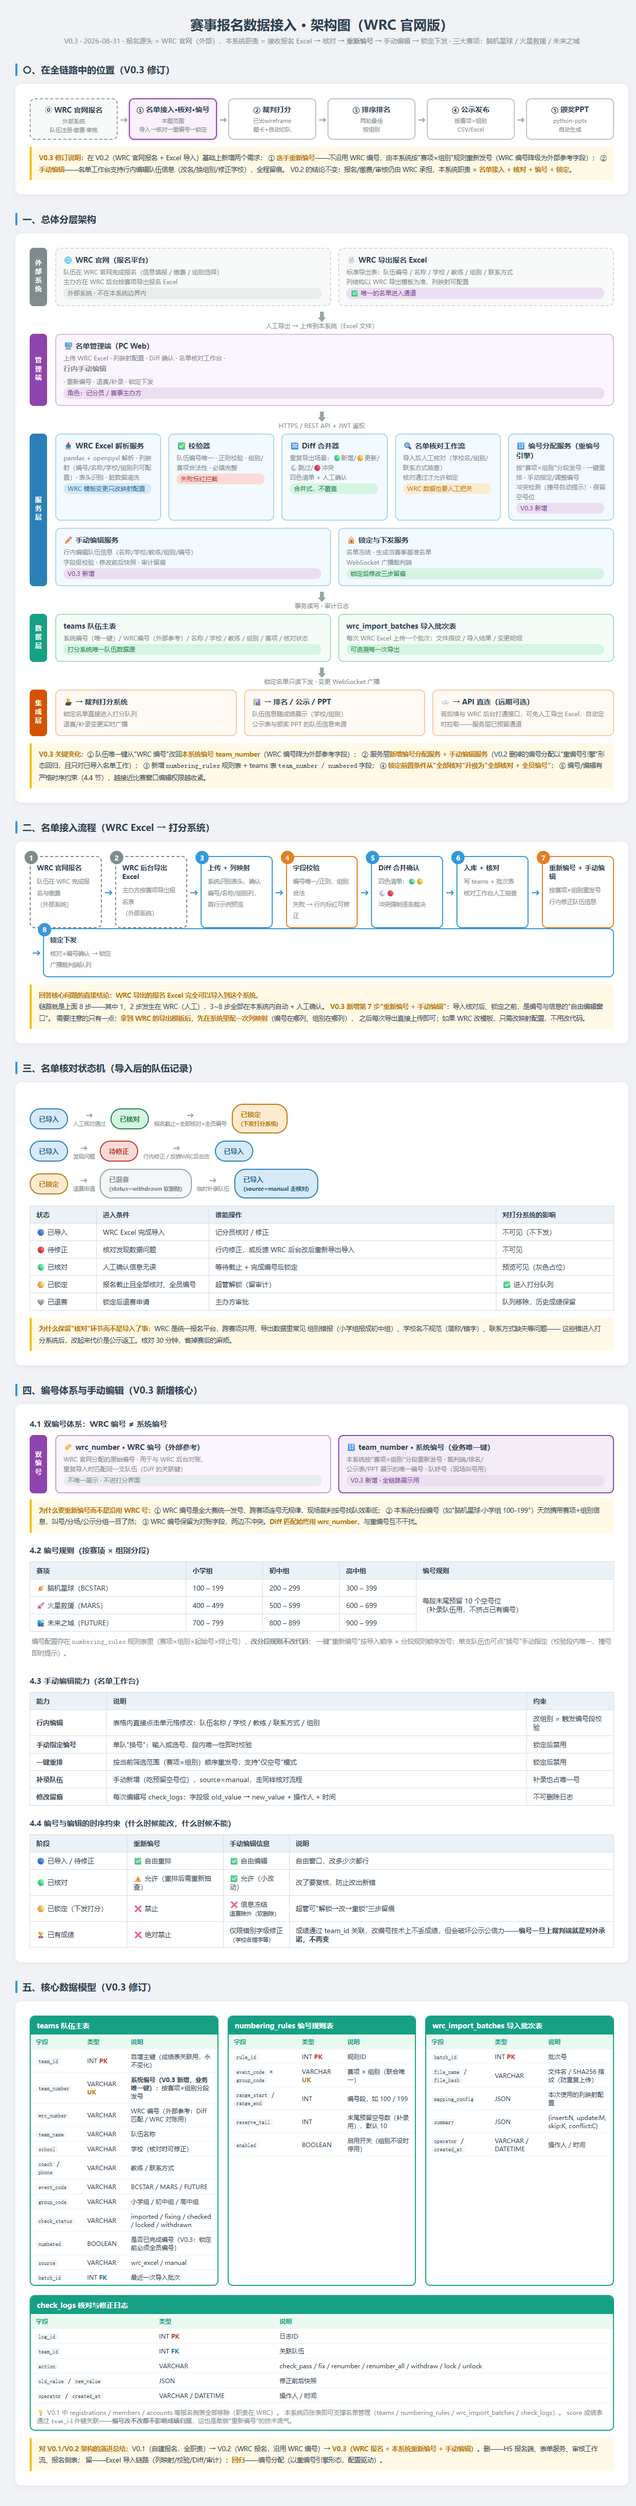
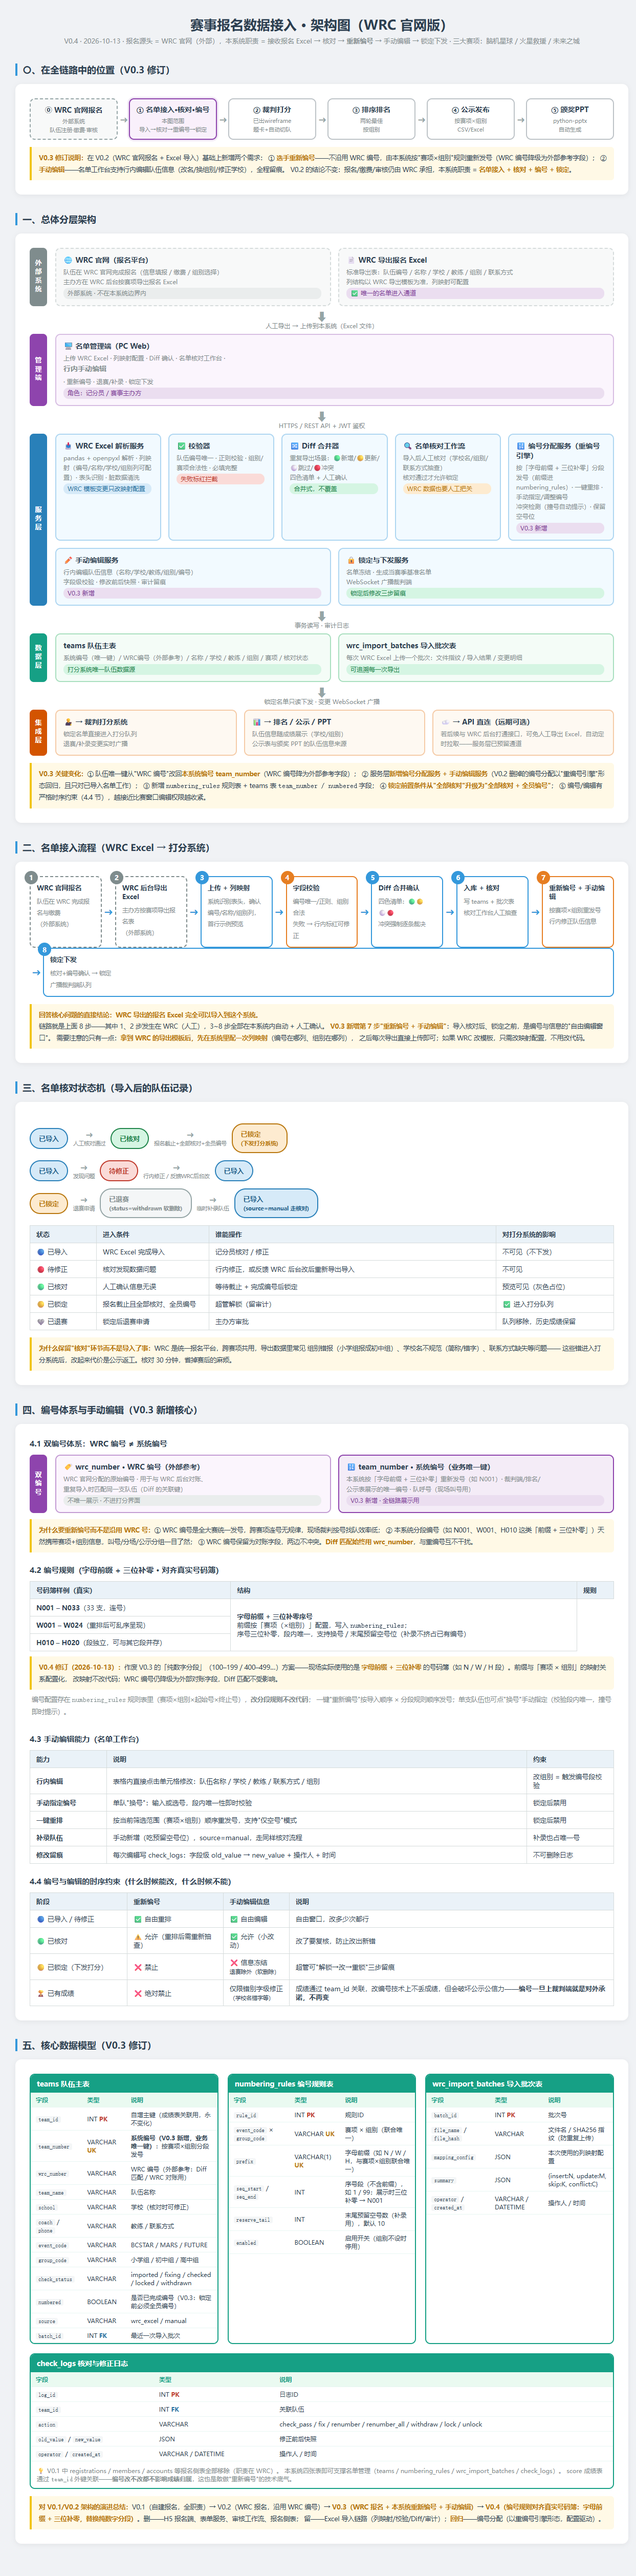
docs(报名架构图): V0.4——编号规则对齐真实号码簿（字母前缀 + 三位补零）
- 作废 V0.3 纯数字分段（100–199/400–499…），改为 N001/W001/H010 式「前缀+三位补零」
- numbering_rules 表：range_start/end 数字段 → prefix + seq_start/seq_end（三位补零）
- 编号分配服务 / team_number 说明 / 4.1 例句 / 演进总结同步；PNG 重截

diff --git a/报名系统架构图.html b/报名系统架构图.html
@@ -97,7 +97,7 @@
 <body>
 
 <h1>赛事报名数据接入 · 架构图（WRC 官网版）</h1>
-<p class="sub">V0.3 · 2026-08-31 · 报名源头 = WRC 官网（外部），本系统职责 = 接收报名 Excel → 核对 → <b>重新编号</b> → 手动编辑 → 锁定下发 · 三大赛项：脑机星球 / 火星救援 / 未来之城</p>
+<p class="sub">V0.4 · 2026-10-13 · 报名源头 = WRC 官网（外部），本系统职责 = 接收报名 Excel → 核对 → <b>重新编号</b> → 手动编辑 → 锁定下发 · 三大赛项：脑机星球 / 火星救援 / 未来之城</p>
 
 <!-- ============ 〇、全链路定位 ============ -->
 <h2>〇、在全链路中的位置（V0.3 修订）</h2>
@@ -181,7 +181,7 @@
       </div>
       <div class="box">
         <b>🔢 编号分配服务（重编号引擎）</b>
-        <span>按"赛项×组别"分段发号 · 一键重排 · 手动指定/调整编号<br>冲突检测（撞号自动提示）· 保留空号位</span>
+        <span>按「字母前缀 + 三位补零」分段发号（前缀进 numbering_rules）· 一键重排 · 手动指定/调整编号<br>冲突检测（撞号自动提示）· 保留空号位</span>
         <span><span class="tag purple">V0.3 新增</span></span>
       </div>
       <div class="box">
@@ -353,24 +353,29 @@
       </div>
       <div class="box" style="border-color:#8e44ad; background:#f4ecf7;">
         <b>🔢 team_number · 系统编号（业务唯一键）</b>
-        <span>本系统按"赛项×组别"分段重新发号 · 裁判端/排名/<br>公示表/PPT 展示的唯一编号 · 队呼号（现场叫号用）</span>
+        <span>本系统按「字母前缀 + 三位补零」重新发号（如 N001）· 裁判端/排名/<br>公示表展示的唯一编号 · 队呼号（现场叫号用）</span>
         <span><span class="tag purple">V0.3 新增 · 全链路展示用</span></span>
       </div>
     </div>
   </div>
   <div class="note" style="margin-top:12px;">
     <b>为什么要重新编号而不是沿用 WRC 号：</b>① WRC 编号是全大赛统一发号，跨赛项连号无规律，现场裁判按号找队效率低；
-    ② 本系统分段编号（如"脑机星球·小学组 100-199"）天然携带赛项+组别信息，叫号/分场/公示分组一目了然；
+    ② 本系统分段编号（如 N001、W001、H010 这类「前缀 + 三位补零」）天然携带赛项+组别信息，叫号/分场/公示分组一目了然；
     ③ WRC 编号保留为对账字段，两边不冲突。<b>Diff 匹配始终用 wrc_number</b>，与重编号互不干扰。
   </div>
 
-  <h3 style="font-size:15px; margin:24px 0 12px;">4.2 编号规则（按赛项 × 组别分段）</h3>
+  <h3 style="font-size:15px; margin:24px 0 12px;">4.2 编号规则（字母前缀 + 三位补零 · 对齐真实号码簿）</h3>
   <table class="branch">
-    <tr><th>赛项</th><th>小学组</th><th>初中组</th><th>高中组</th><th>编号规则</th></tr>
-    <tr><td>🪐 脑机星球（BCSTAR）</td><td>100 – 199</td><td>200 – 299</td><td>300 – 399</td><td rowspan="3" style="vertical-align:middle;">每段末尾预留 10 个空号位<br>（补录队伍用，不挤占已有编号）</td></tr>
-    <tr><td>🚀 火星救援（MARS）</td><td>400 – 499</td><td>500 – 599</td><td>600 – 699</td></tr>
-    <tr><td>🏙 未来之城（FUTURE）</td><td>700 – 799</td><td>800 – 899</td><td>900 – 999</td></tr>
+    <tr><th>号码簿样例（真实）</th><th>结构</th><th>规则</th></tr>
+    <tr><td><b>N001 – N033</b>（33 支，连号）</td><td rowspan="3" style="vertical-align:middle;"><b>字母前缀 + 三位补零序号</b><br>前缀按「赛项（×组别）」配置，写入 <code>numbering_rules</code>；<br>序号三位补零，段内唯一，支持换号 / 末尾预留空号位（补录不挤占已有编号）</td></tr>
+    <tr><td><b>W001 – W024</b>（重排后可乱序呈现）</td></tr>
+    <tr><td><b>H010 – H020</b>（段独立，可与其它段并存）</td></tr>
   </table>
+  <div class="note" style="margin-top:10px;">
+    <b>V0.4 修订（2026-10-13）：</b>作废 V0.3 的「纯数字分段」（100–199 / 400–499…）方案——现场实际使用的是
+    <b>字母前缀 + 三位补零</b> 的号码簿（如 N / W / H 段）。前缀与「赛项 × 组别」的映射关系配置化，
+    改映射不改代码；WRC 编号仍降级为外部对账字段，Diff 匹配不受影响。
+  </div>
   <div style="font-size:12.5px; color:#7f8c8d; padding:8px 4px; line-height:1.8;">
     编号配置存在 <code>numbering_rules</code> 规则表里（赛项×组别×起始号×终止号），<b>改分段规则不改代码</b>；
     一键"重新编号"按导入顺序 × 分段规则顺序发号；单支队伍也可点"换号"手动指定（校验段内唯一，撞号即时提示）。
@@ -424,7 +429,8 @@
         <tr><th>字段</th><th>类型</th><th>说明</th></tr>
         <tr><td><code>rule_id</code></td><td>INT <span class="pk">PK</span></td><td>规则ID</td></tr>
         <tr><td><code>event_code</code> × <code>group_code</code></td><td>VARCHAR <span class="uk">UK</span></td><td>赛项 × 组别（联合唯一）</td></tr>
-        <tr><td><code>range_start</code> / <code>range_end</code></td><td>INT</td><td>编号段，如 100 / 199</td></tr>
+        <tr><td><code>prefix</code></td><td>VARCHAR(1) <span class="uk">UK</span></td><td>字母前缀（如 N / W / H，与赛项×组别联合唯一）</td></tr>
+        <tr><td><code>seq_start</code> / <code>seq_end</code></td><td>INT</td><td>序号段（不含前缀），如 1 / 99；展示时三位补零 → N001</td></tr>
         <tr><td><code>reserve_tail</code></td><td>INT</td><td>末尾预留空号数（补录用），默认 10</td></tr>
         <tr><td><code>enabled</code></td><td>BOOLEAN</td><td>启用开关（组别不设时停用）</td></tr>
       </table>
@@ -459,7 +465,7 @@
   </div>
   <div class="note">
     <b>对 V0.1/V0.2 架构的演进总结：</b>V0.1（自建报名，全职责）→ V0.2（WRC 报名，沿用 WRC 编号）→
-    <b>V0.3（WRC 报名 + 本系统重新编号 + 手动编辑）</b>。删——H5 报名端、表单服务、审核工作流、报名侧表；
+    <b>V0.3（WRC 报名 + 本系统重新编号 + 手动编辑）</b>→ <b>V0.4（编号规则对齐真实号码簿：字母前缀 + 三位补零，替换纯数字分段）</b>。删——H5 报名端、表单服务、审核工作流、报名侧表；
     留——Excel 导入链路（列映射/校验/Diff/审计）；<b>回归</b>——编号分配（以重编号引擎形态，配置驱动）。
   </div>
 </div>
